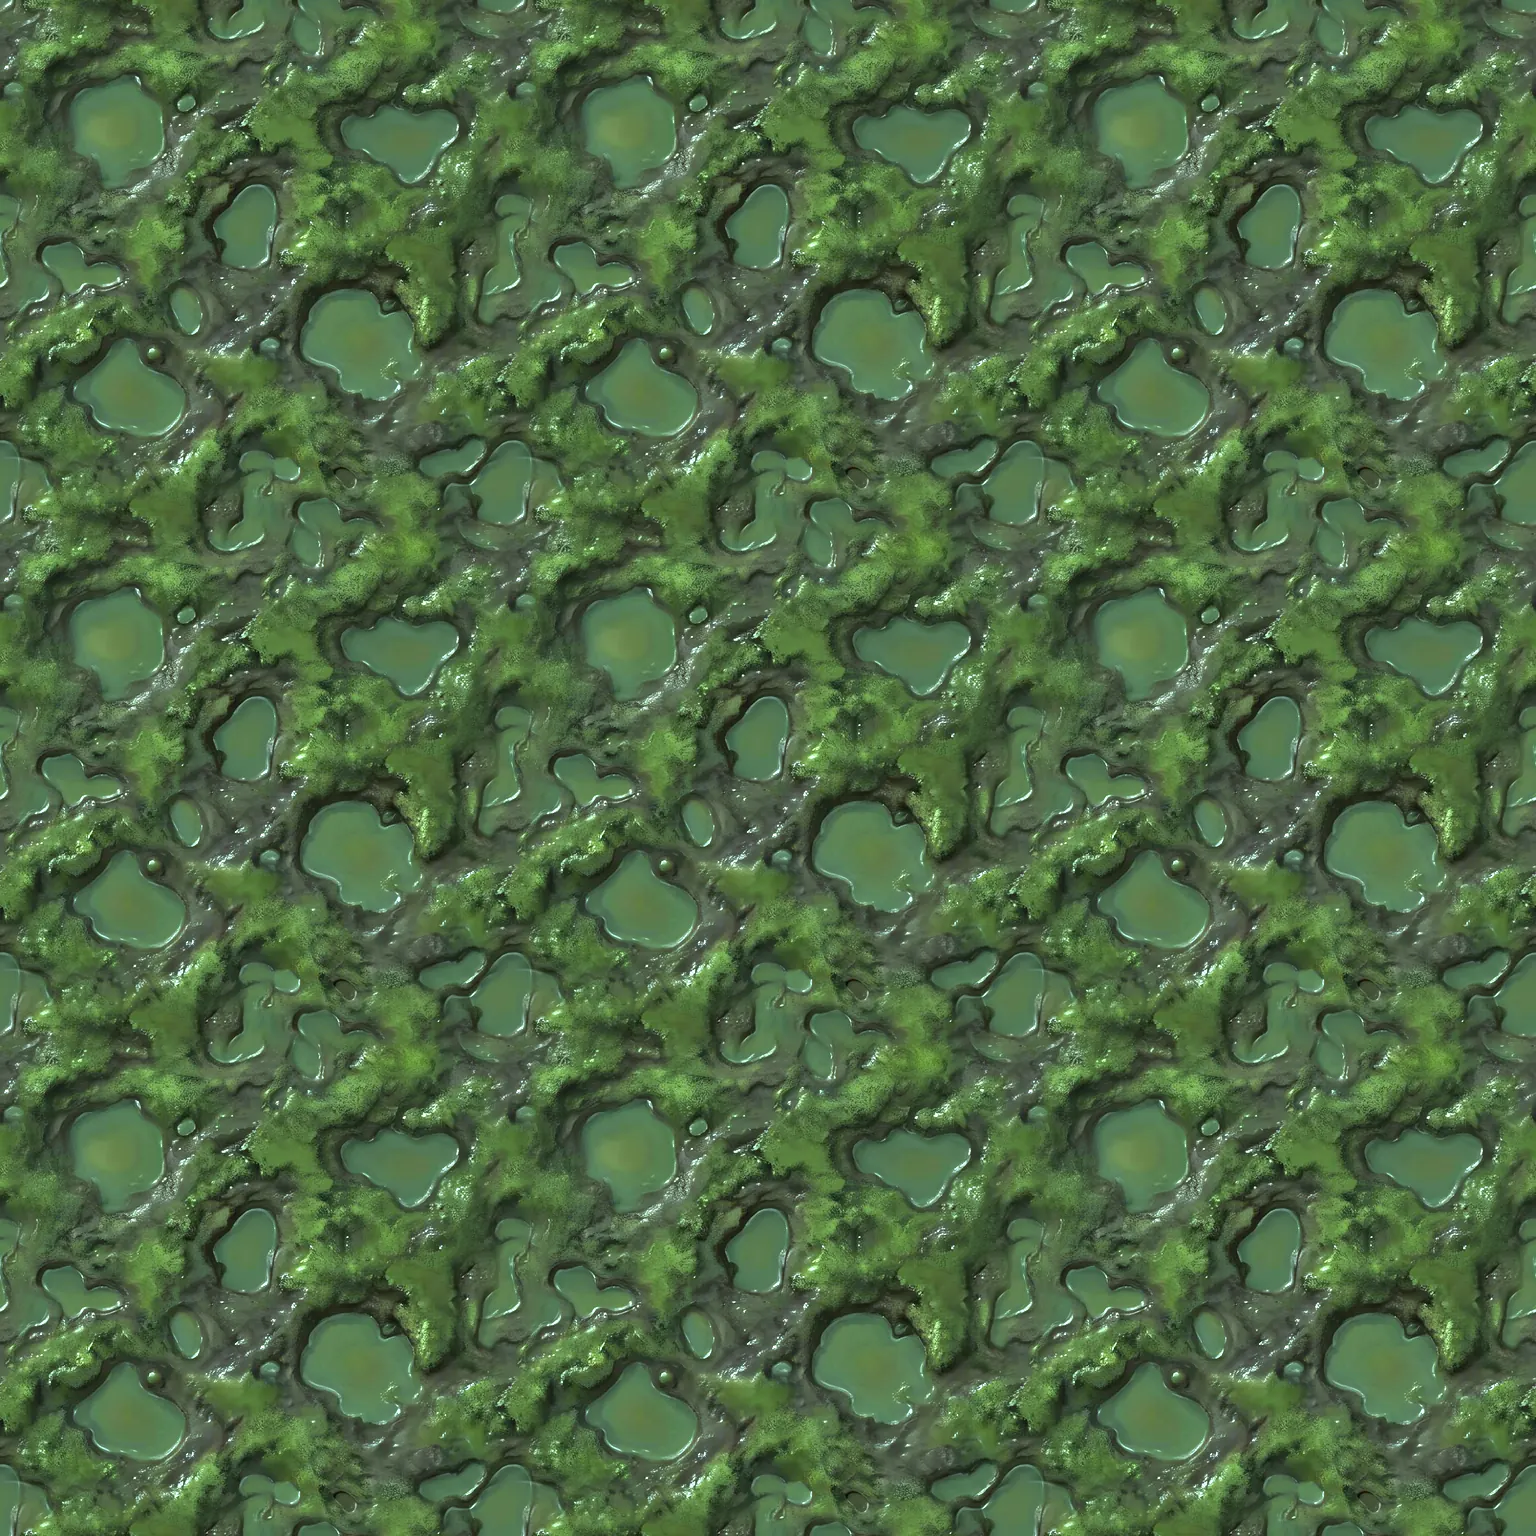
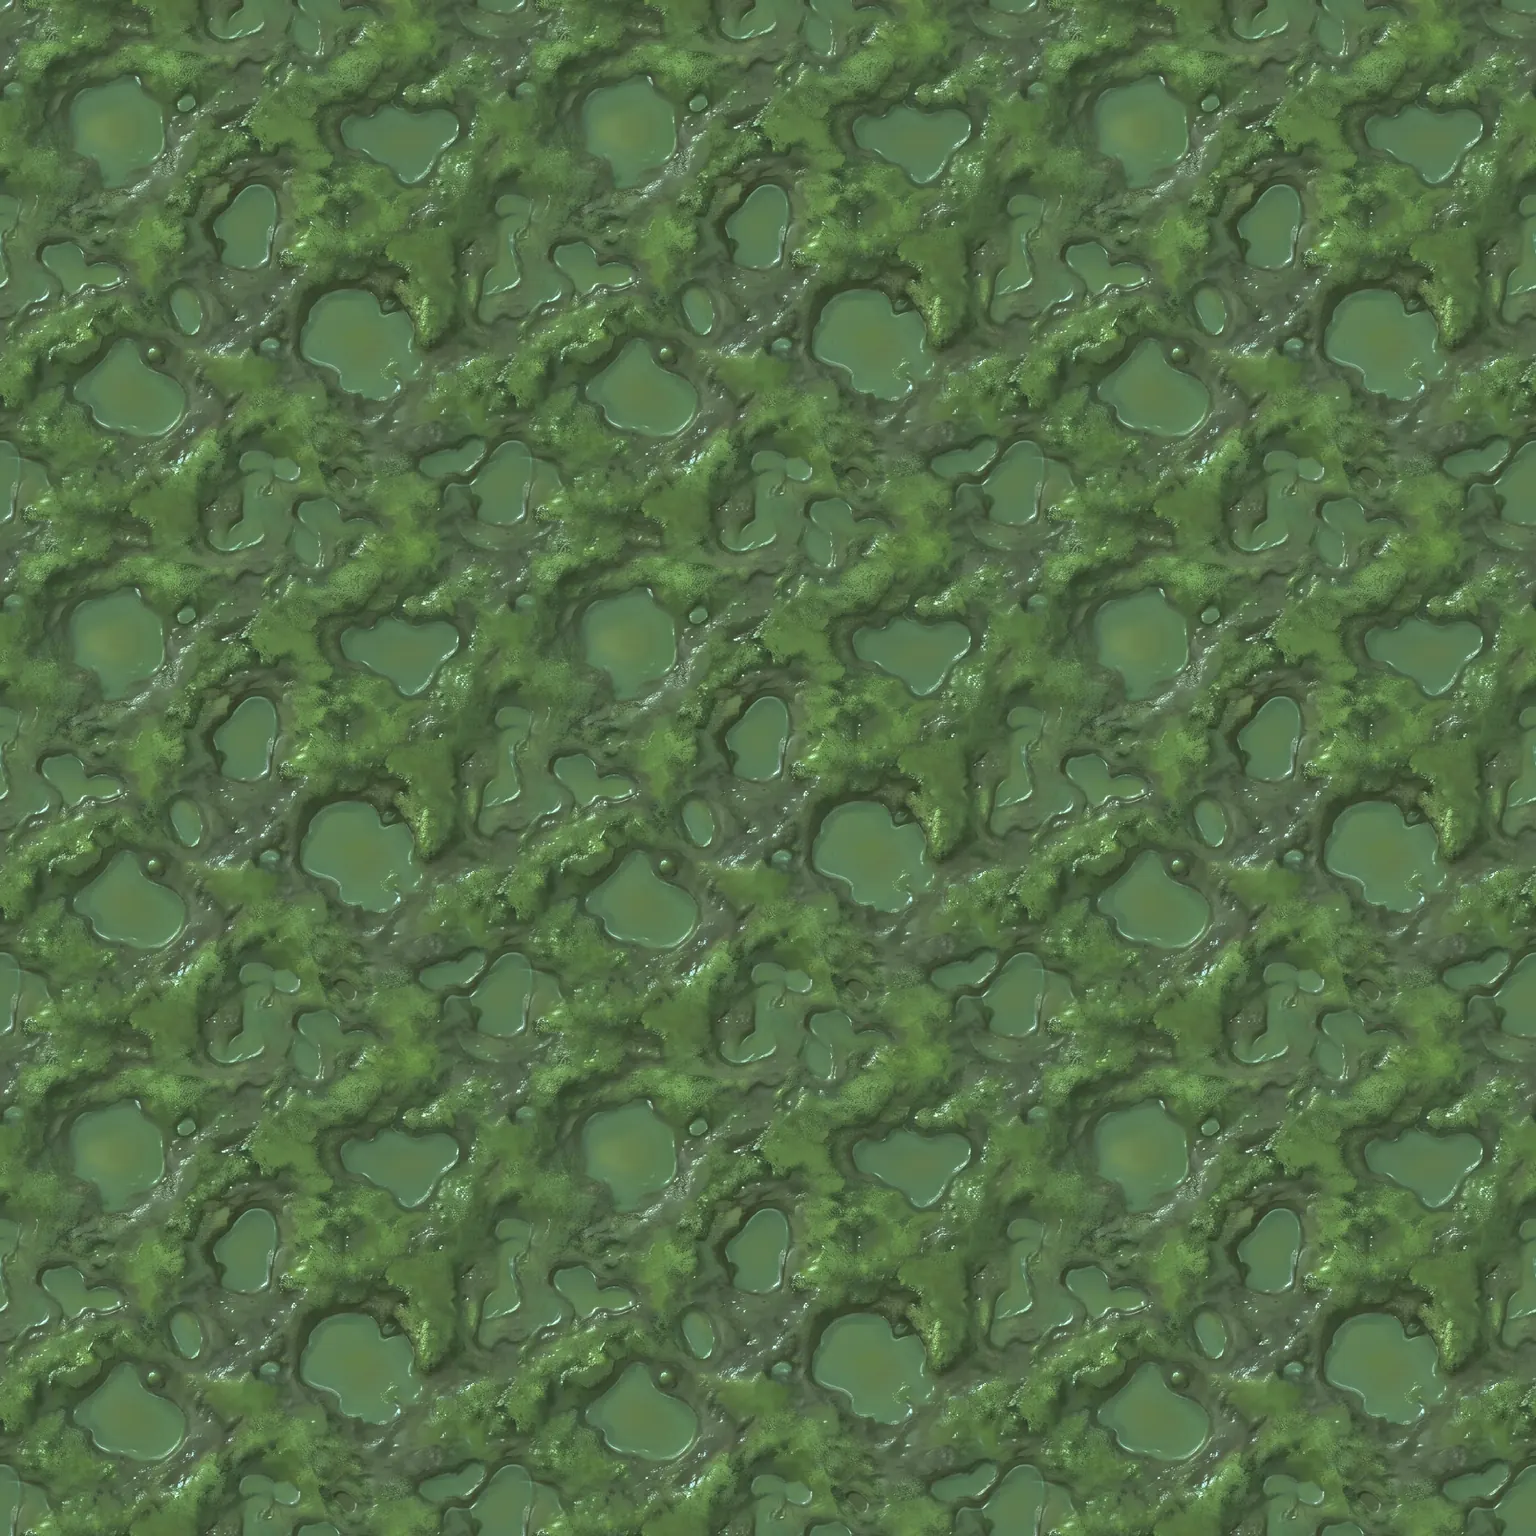
The Swamp in layers: its muddy floor with pools over the whole map, swamp trees, reeds and bushes cut from a painted sheet standing whole in each hex
Claude-Session: https://claude.ai/code/session_014mPV2zL44TcDQaUfxc49uR

diff --git a/tools/anchors.html b/tools/anchors.html
@@ -7,7 +7,7 @@
 <link rel="stylesheet" href="https://fonts.googleapis.com/css2?family=Fredoka:wght@500;600;700&family=Atkinson+Hyperlegible:wght@400;700&display=swap">
 <!-- assets:start -->
 <link rel="stylesheet" href="../css/style.css?v=a98cf90760">
-<script type="importmap">{ "imports": { "../js/actions.js": "../js/actions.js?v=64dcea9537", "../js/alarm.js": "../js/alarm.js?v=b19eb6fe5c", "../js/art.js": "../js/art.js?v=0538f83fe7", "../js/clock.js": "../js/clock.js?v=98108f9b2e", "../js/cloud-config.js": "../js/cloud-config.js?v=28e7772b10", "../js/cloud.js": "../js/cloud.js?v=60da263318", "../js/combat.js": "../js/combat.js?v=b541f39113", "../js/config.js": "../js/config.js?v=564d29da21", "../js/economy.js": "../js/economy.js?v=1e0b359c22", "../js/game-server.js": "../js/game-server.js?v=b3f270680e", "../js/gear-art.js": "../js/gear-art.js?v=bc05d10529", "../js/journey.js": "../js/journey.js?v=a245a8a5b2", "../js/main.js": "../js/main.js?v=143fa79bc5", "../js/map.js": "../js/map.js?v=4153d2b64e", "../js/packs.js": "../js/packs.js?v=4168625cd2", "../js/reminder.js": "../js/reminder.js?v=51a9cff03b", "../js/scar-guess.js": "../js/scar-guess.js?v=08a9385c75", "../js/sheets.js": "../js/sheets.js?v=63c24fc166", "../js/state.js": "../js/state.js?v=49a32b708b", "../js/sun.js": "../js/sun.js?v=7ee42ae21a", "../js/sync.js": "../js/sync.js?v=91c094f19d", "../js/teams.js": "../js/teams.js?v=8588948ee6", "../js/ui/account.js": "../js/ui/account.js?v=f0937bffca", "../js/ui/baby-info.js": "../js/ui/baby-info.js?v=f2a0fc2cdb", "../js/ui/breeding.js": "../js/ui/breeding.js?v=57ea23cf7e", "../js/ui/fight.js": "../js/ui/fight.js?v=2c017b3e0c", "../js/ui/forge.js": "../js/ui/forge.js?v=957efcb060", "../js/ui/gate.js": "../js/ui/gate.js?v=37490a8cd1", "../js/ui/guide.js": "../js/ui/guide.js?v=ce8bb67718", "../js/ui/header.js": "../js/ui/header.js?v=28904c3f19", "../js/ui/hexdraw.js": "../js/ui/hexdraw.js?v=2b85d0aa49", "../js/ui/incubator.js": "../js/ui/incubator.js?v=58e78f0451", "../js/ui/inventory.js": "../js/ui/inventory.js?v=c00e3eb52f", "../js/ui/journey.js": "../js/ui/journey.js?v=3ad4b9a365", "../js/ui/landing.js": "../js/ui/landing.js?v=21d67b8f6d", "../js/ui/mapcanvas.js": "../js/ui/mapcanvas.js?v=d841973bac", "../js/ui/nest.js": "../js/ui/nest.js?v=cf608df73e", "../js/ui/packs.js": "../js/ui/packs.js?v=b58c488a31", "../js/ui/player.js": "../js/ui/player.js?v=698de3ae4c", "../js/ui/rewards.js": "../js/ui/rewards.js?v=85c3eabb3f", "../js/ui/shop.js": "../js/ui/shop.js?v=97faf7bd8b", "../js/ui/stats.js": "../js/ui/stats.js?v=2d7890d599", "../js/ui/tabs.js": "../js/ui/tabs.js?v=e5fb239ad5", "../js/ui/team.js": "../js/ui/team.js?v=23e16a4df3", "../js/ui/water.js": "../js/ui/water.js?v=725f4b1e60", "../js/ui/words.js": "../js/ui/words.js?v=73dbb15832", "../js/ui/world.js": "../js/ui/world.js?v=fc8020f8cc", "../js/util.js": "../js/util.js?v=2bb58f0477", "../js/world.js": "../js/world.js?v=0a139d308a", "../tools/anchors.js": "../tools/anchors.js?v=14f32bc86a" } }</script>
+<script type="importmap">{ "imports": { "../js/actions.js": "../js/actions.js?v=64dcea9537", "../js/alarm.js": "../js/alarm.js?v=b19eb6fe5c", "../js/art.js": "../js/art.js?v=0538f83fe7", "../js/clock.js": "../js/clock.js?v=98108f9b2e", "../js/cloud-config.js": "../js/cloud-config.js?v=28e7772b10", "../js/cloud.js": "../js/cloud.js?v=60da263318", "../js/combat.js": "../js/combat.js?v=b541f39113", "../js/config.js": "../js/config.js?v=564d29da21", "../js/economy.js": "../js/economy.js?v=1e0b359c22", "../js/game-server.js": "../js/game-server.js?v=b3f270680e", "../js/gear-art.js": "../js/gear-art.js?v=bc05d10529", "../js/journey.js": "../js/journey.js?v=a245a8a5b2", "../js/main.js": "../js/main.js?v=143fa79bc5", "../js/map.js": "../js/map.js?v=4153d2b64e", "../js/packs.js": "../js/packs.js?v=4168625cd2", "../js/reminder.js": "../js/reminder.js?v=51a9cff03b", "../js/scar-guess.js": "../js/scar-guess.js?v=08a9385c75", "../js/sheets.js": "../js/sheets.js?v=63c24fc166", "../js/state.js": "../js/state.js?v=49a32b708b", "../js/sun.js": "../js/sun.js?v=7ee42ae21a", "../js/sync.js": "../js/sync.js?v=91c094f19d", "../js/teams.js": "../js/teams.js?v=8588948ee6", "../js/ui/account.js": "../js/ui/account.js?v=f0937bffca", "../js/ui/baby-info.js": "../js/ui/baby-info.js?v=f2a0fc2cdb", "../js/ui/breeding.js": "../js/ui/breeding.js?v=57ea23cf7e", "../js/ui/fight.js": "../js/ui/fight.js?v=2c017b3e0c", "../js/ui/forge.js": "../js/ui/forge.js?v=957efcb060", "../js/ui/gate.js": "../js/ui/gate.js?v=37490a8cd1", "../js/ui/guide.js": "../js/ui/guide.js?v=ce8bb67718", "../js/ui/header.js": "../js/ui/header.js?v=28904c3f19", "../js/ui/hexdraw.js": "../js/ui/hexdraw.js?v=2b85d0aa49", "../js/ui/incubator.js": "../js/ui/incubator.js?v=58e78f0451", "../js/ui/inventory.js": "../js/ui/inventory.js?v=c00e3eb52f", "../js/ui/journey.js": "../js/ui/journey.js?v=3ad4b9a365", "../js/ui/landing.js": "../js/ui/landing.js?v=21d67b8f6d", "../js/ui/mapcanvas.js": "../js/ui/mapcanvas.js?v=b2d77e07c0", "../js/ui/nest.js": "../js/ui/nest.js?v=cf608df73e", "../js/ui/packs.js": "../js/ui/packs.js?v=b58c488a31", "../js/ui/player.js": "../js/ui/player.js?v=698de3ae4c", "../js/ui/rewards.js": "../js/ui/rewards.js?v=85c3eabb3f", "../js/ui/shop.js": "../js/ui/shop.js?v=97faf7bd8b", "../js/ui/stats.js": "../js/ui/stats.js?v=2d7890d599", "../js/ui/tabs.js": "../js/ui/tabs.js?v=e5fb239ad5", "../js/ui/team.js": "../js/ui/team.js?v=23e16a4df3", "../js/ui/water.js": "../js/ui/water.js?v=725f4b1e60", "../js/ui/words.js": "../js/ui/words.js?v=73dbb15832", "../js/ui/world.js": "../js/ui/world.js?v=fc8020f8cc", "../js/util.js": "../js/util.js?v=2bb58f0477", "../js/world.js": "../js/world.js?v=0a139d308a", "../tools/anchors.js": "../tools/anchors.js?v=14f32bc86a" } }</script>
 <script type="module" src="../tools/anchors.js?v=14f32bc86a"></script>
 <!-- assets:end -->
 <style>

diff --git a/index.html b/index.html
@@ -19,7 +19,7 @@ addEventListener('load', () => setTimeout(() => sessionStorage.removeItem('nest-
 </script>
 <!-- assets:start -->
 <link rel="stylesheet" href="./css/style.css?v=a98cf90760">
-<script type="importmap">{ "imports": { "./js/actions.js": "./js/actions.js?v=64dcea9537", "./js/alarm.js": "./js/alarm.js?v=b19eb6fe5c", "./js/art.js": "./js/art.js?v=0538f83fe7", "./js/clock.js": "./js/clock.js?v=98108f9b2e", "./js/cloud-config.js": "./js/cloud-config.js?v=28e7772b10", "./js/cloud.js": "./js/cloud.js?v=60da263318", "./js/combat.js": "./js/combat.js?v=b541f39113", "./js/config.js": "./js/config.js?v=564d29da21", "./js/economy.js": "./js/economy.js?v=1e0b359c22", "./js/game-server.js": "./js/game-server.js?v=b3f270680e", "./js/gear-art.js": "./js/gear-art.js?v=bc05d10529", "./js/journey.js": "./js/journey.js?v=a245a8a5b2", "./js/main.js": "./js/main.js?v=143fa79bc5", "./js/map.js": "./js/map.js?v=4153d2b64e", "./js/packs.js": "./js/packs.js?v=4168625cd2", "./js/reminder.js": "./js/reminder.js?v=51a9cff03b", "./js/scar-guess.js": "./js/scar-guess.js?v=08a9385c75", "./js/sheets.js": "./js/sheets.js?v=63c24fc166", "./js/state.js": "./js/state.js?v=49a32b708b", "./js/sun.js": "./js/sun.js?v=7ee42ae21a", "./js/sync.js": "./js/sync.js?v=91c094f19d", "./js/teams.js": "./js/teams.js?v=8588948ee6", "./js/ui/account.js": "./js/ui/account.js?v=f0937bffca", "./js/ui/baby-info.js": "./js/ui/baby-info.js?v=f2a0fc2cdb", "./js/ui/breeding.js": "./js/ui/breeding.js?v=57ea23cf7e", "./js/ui/fight.js": "./js/ui/fight.js?v=2c017b3e0c", "./js/ui/forge.js": "./js/ui/forge.js?v=957efcb060", "./js/ui/gate.js": "./js/ui/gate.js?v=37490a8cd1", "./js/ui/guide.js": "./js/ui/guide.js?v=ce8bb67718", "./js/ui/header.js": "./js/ui/header.js?v=28904c3f19", "./js/ui/hexdraw.js": "./js/ui/hexdraw.js?v=2b85d0aa49", "./js/ui/incubator.js": "./js/ui/incubator.js?v=58e78f0451", "./js/ui/inventory.js": "./js/ui/inventory.js?v=c00e3eb52f", "./js/ui/journey.js": "./js/ui/journey.js?v=3ad4b9a365", "./js/ui/landing.js": "./js/ui/landing.js?v=21d67b8f6d", "./js/ui/mapcanvas.js": "./js/ui/mapcanvas.js?v=d841973bac", "./js/ui/nest.js": "./js/ui/nest.js?v=cf608df73e", "./js/ui/packs.js": "./js/ui/packs.js?v=b58c488a31", "./js/ui/player.js": "./js/ui/player.js?v=698de3ae4c", "./js/ui/rewards.js": "./js/ui/rewards.js?v=85c3eabb3f", "./js/ui/shop.js": "./js/ui/shop.js?v=97faf7bd8b", "./js/ui/stats.js": "./js/ui/stats.js?v=2d7890d599", "./js/ui/tabs.js": "./js/ui/tabs.js?v=e5fb239ad5", "./js/ui/team.js": "./js/ui/team.js?v=23e16a4df3", "./js/ui/water.js": "./js/ui/water.js?v=725f4b1e60", "./js/ui/words.js": "./js/ui/words.js?v=73dbb15832", "./js/ui/world.js": "./js/ui/world.js?v=fc8020f8cc", "./js/util.js": "./js/util.js?v=2bb58f0477", "./js/world.js": "./js/world.js?v=0a139d308a", "./tools/anchors.js": "./tools/anchors.js?v=14f32bc86a" } }</script>
+<script type="importmap">{ "imports": { "./js/actions.js": "./js/actions.js?v=64dcea9537", "./js/alarm.js": "./js/alarm.js?v=b19eb6fe5c", "./js/art.js": "./js/art.js?v=0538f83fe7", "./js/clock.js": "./js/clock.js?v=98108f9b2e", "./js/cloud-config.js": "./js/cloud-config.js?v=28e7772b10", "./js/cloud.js": "./js/cloud.js?v=60da263318", "./js/combat.js": "./js/combat.js?v=b541f39113", "./js/config.js": "./js/config.js?v=564d29da21", "./js/economy.js": "./js/economy.js?v=1e0b359c22", "./js/game-server.js": "./js/game-server.js?v=b3f270680e", "./js/gear-art.js": "./js/gear-art.js?v=bc05d10529", "./js/journey.js": "./js/journey.js?v=a245a8a5b2", "./js/main.js": "./js/main.js?v=143fa79bc5", "./js/map.js": "./js/map.js?v=4153d2b64e", "./js/packs.js": "./js/packs.js?v=4168625cd2", "./js/reminder.js": "./js/reminder.js?v=51a9cff03b", "./js/scar-guess.js": "./js/scar-guess.js?v=08a9385c75", "./js/sheets.js": "./js/sheets.js?v=63c24fc166", "./js/state.js": "./js/state.js?v=49a32b708b", "./js/sun.js": "./js/sun.js?v=7ee42ae21a", "./js/sync.js": "./js/sync.js?v=91c094f19d", "./js/teams.js": "./js/teams.js?v=8588948ee6", "./js/ui/account.js": "./js/ui/account.js?v=f0937bffca", "./js/ui/baby-info.js": "./js/ui/baby-info.js?v=f2a0fc2cdb", "./js/ui/breeding.js": "./js/ui/breeding.js?v=57ea23cf7e", "./js/ui/fight.js": "./js/ui/fight.js?v=2c017b3e0c", "./js/ui/forge.js": "./js/ui/forge.js?v=957efcb060", "./js/ui/gate.js": "./js/ui/gate.js?v=37490a8cd1", "./js/ui/guide.js": "./js/ui/guide.js?v=ce8bb67718", "./js/ui/header.js": "./js/ui/header.js?v=28904c3f19", "./js/ui/hexdraw.js": "./js/ui/hexdraw.js?v=2b85d0aa49", "./js/ui/incubator.js": "./js/ui/incubator.js?v=58e78f0451", "./js/ui/inventory.js": "./js/ui/inventory.js?v=c00e3eb52f", "./js/ui/journey.js": "./js/ui/journey.js?v=3ad4b9a365", "./js/ui/landing.js": "./js/ui/landing.js?v=21d67b8f6d", "./js/ui/mapcanvas.js": "./js/ui/mapcanvas.js?v=b2d77e07c0", "./js/ui/nest.js": "./js/ui/nest.js?v=cf608df73e", "./js/ui/packs.js": "./js/ui/packs.js?v=b58c488a31", "./js/ui/player.js": "./js/ui/player.js?v=698de3ae4c", "./js/ui/rewards.js": "./js/ui/rewards.js?v=85c3eabb3f", "./js/ui/shop.js": "./js/ui/shop.js?v=97faf7bd8b", "./js/ui/stats.js": "./js/ui/stats.js?v=2d7890d599", "./js/ui/tabs.js": "./js/ui/tabs.js?v=e5fb239ad5", "./js/ui/team.js": "./js/ui/team.js?v=23e16a4df3", "./js/ui/water.js": "./js/ui/water.js?v=725f4b1e60", "./js/ui/words.js": "./js/ui/words.js?v=73dbb15832", "./js/ui/world.js": "./js/ui/world.js?v=fc8020f8cc", "./js/util.js": "./js/util.js?v=2bb58f0477", "./js/world.js": "./js/world.js?v=0a139d308a", "./tools/anchors.js": "./tools/anchors.js?v=14f32bc86a" } }</script>
 <script type="module" src="./js/main.js?v=143fa79bc5"></script>
 <!-- assets:end -->
 </head>

diff --git a/js/ui/mapcanvas.js b/js/ui/mapcanvas.js
@@ -170,7 +170,7 @@ function groundFill(ctx, seed, h, cell, smooth, over = false) {
 // parts of one forest, seen at the same slant as the ground; from afar it is drawn in its colour, which
 // is the picture's average.
 // (in order: where two meet, the later one's ground runs over the edge into the other's)
-const TEXTURED = ['swamp'];
+const TEXTURED = [];
 const rank = biome => TEXTURED.indexOf(biome);
 const groundName = cell => (cell.terrain === 'mountain' ? 'rock' : cell.biome);
 const TEXTURE_PX = SIZE * SQ3 * 1.6 / 352;   // how far across the map a pixel of a picture reaches (map units)
@@ -223,7 +223,7 @@ const hasTexture = biome => (rank(biome) >= 0 && textures.get(`${biome}-0`)?.nat
 // whole) standing in each hex, every one wholly inside it, so nothing crosses into a neighbour; more of
 // them the denser the hex (densityOf). Each hex shows one of a few arrangements made once (LAYOUTS for
 // each density, also mirrored).
-const PLANTED = { meadow: { floor: '#a3bd74', size: 10, counts: [12, 6, 2] }, forest: { floor: '#3f5531', size: 12, counts: [40, 22, 12, 6, 2] }, hills: {} };
+const PLANTED = { swamp: { floor: '#56704a', size: 14, counts: [14, 8, 4], span: 4.5 }, meadow: { floor: '#a3bd74', size: 10, counts: [12, 6, 2] }, forest: { floor: '#3f5531', size: 12, counts: [40, 22, 12, 6, 2] }, hills: {} };
 const floors = new WeakMap();
 const floorPattern = (ctx, biome, img) => { let m = floors.get(ctx); if (!m) floors.set(ctx, m = new Map()); if (!m.has(biome)) m.set(biome, ctx.createPattern(img, 'repeat')); return m.get(biome); };
 const LAYOUTS = 10, LAYOUT_PX = 5;   // arrangements a density, pixels a map unit they are made at
@@ -379,7 +379,7 @@ export function drawHexes(ctx, seed, hexes, known, edge = GRID, detail = 'full')
       const floor = picture(`${biome}-floor`);
       ctx.save(); ctx.translate(x, y);
       if (floor.complete && floor.naturalWidth) {
-        const k = SIZE * SQ3 * 2.4 / floor.naturalWidth, pat = floorPattern(ctx, biome, floor);
+        const k = SIZE * SQ3 * (PLANTED[biome].span || 2.4) / floor.naturalWidth, pat = floorPattern(ctx, biome, floor);
         pat.setTransform(new DOMMatrix([k, 0, 0, k * TILT, -x, -y]));
         ctx.fillStyle = pat;
       } else ctx.fillStyle = PLANTED[biome].floor;
